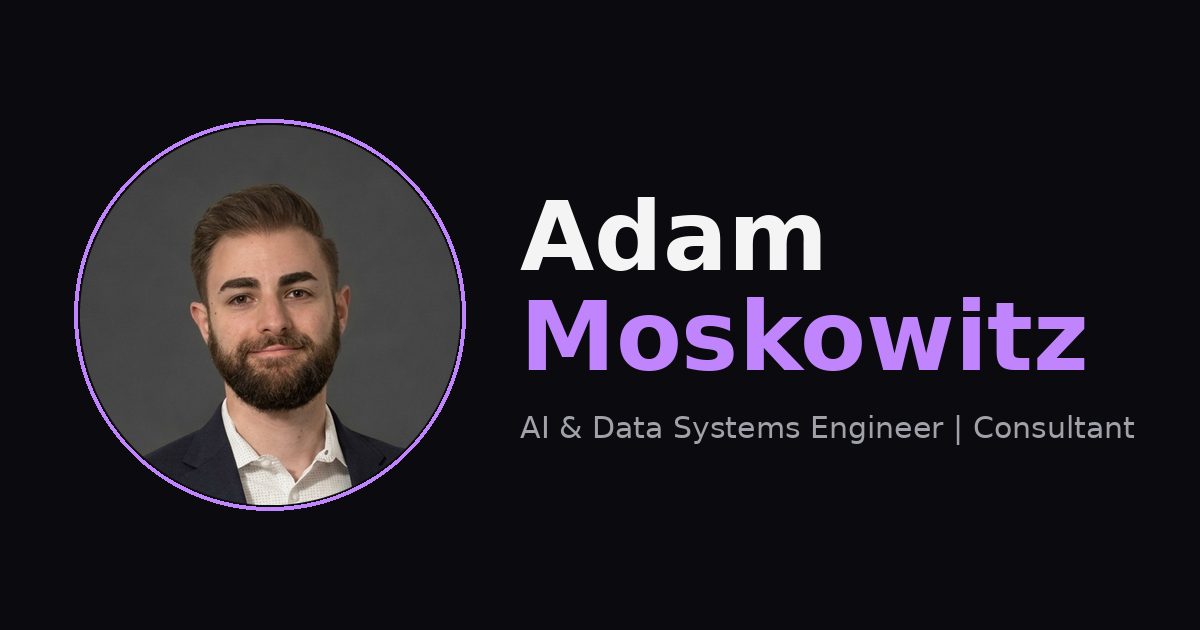
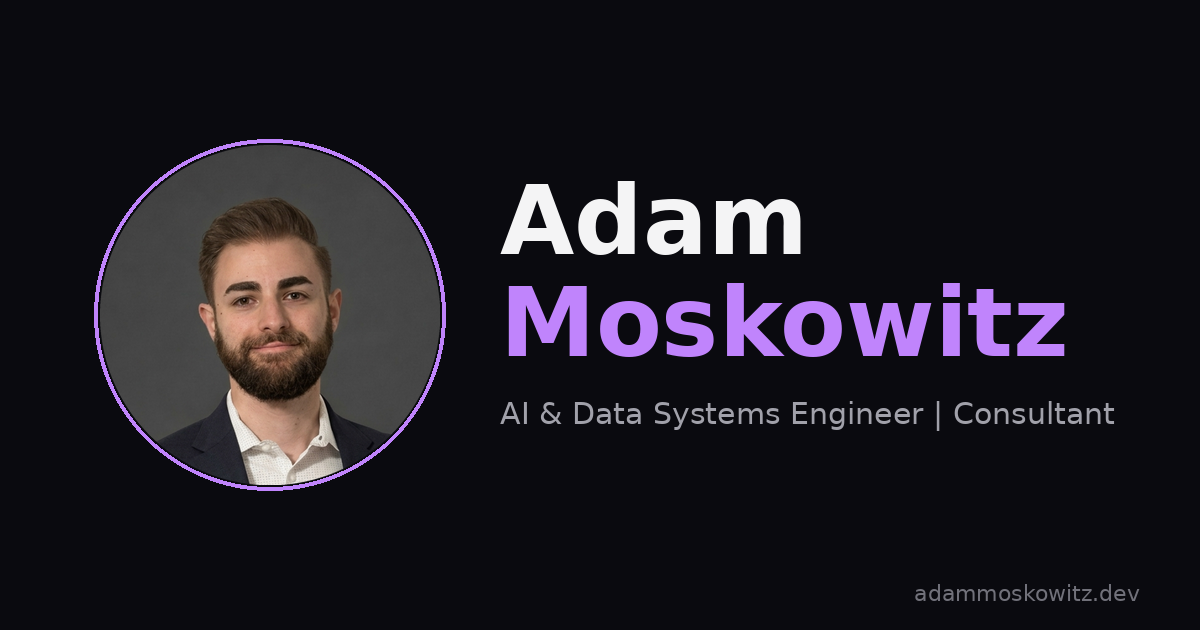
Add URL watermark to OG images and extend title with Consultant

Changed region(s): [[0.0617, 0.181, 0.925, 0.8143], [0.4008, 0.6333, 0.9558, 0.6937], [0.74, 0.9349, 0.9558, 0.9651]]

diff --git a/src/app/layout.tsx b/src/app/layout.tsx
@@ -17,7 +17,7 @@ const geistMono = Geist_Mono({
   subsets: ["latin"],
 });
 
-const siteTitle = "Adam Moskowitz | AI & Data Systems Engineer";
+const siteTitle = "Adam Moskowitz | AI & Data Systems Engineer | Consultant";
 const siteDescription =
   "Portfolio of Adam Moskowitz — AI & Data Systems Engineer building production AI pipelines, data warehouses, and automation systems.";
 const siteUrl = "https://www.adammoskowitz.dev";
